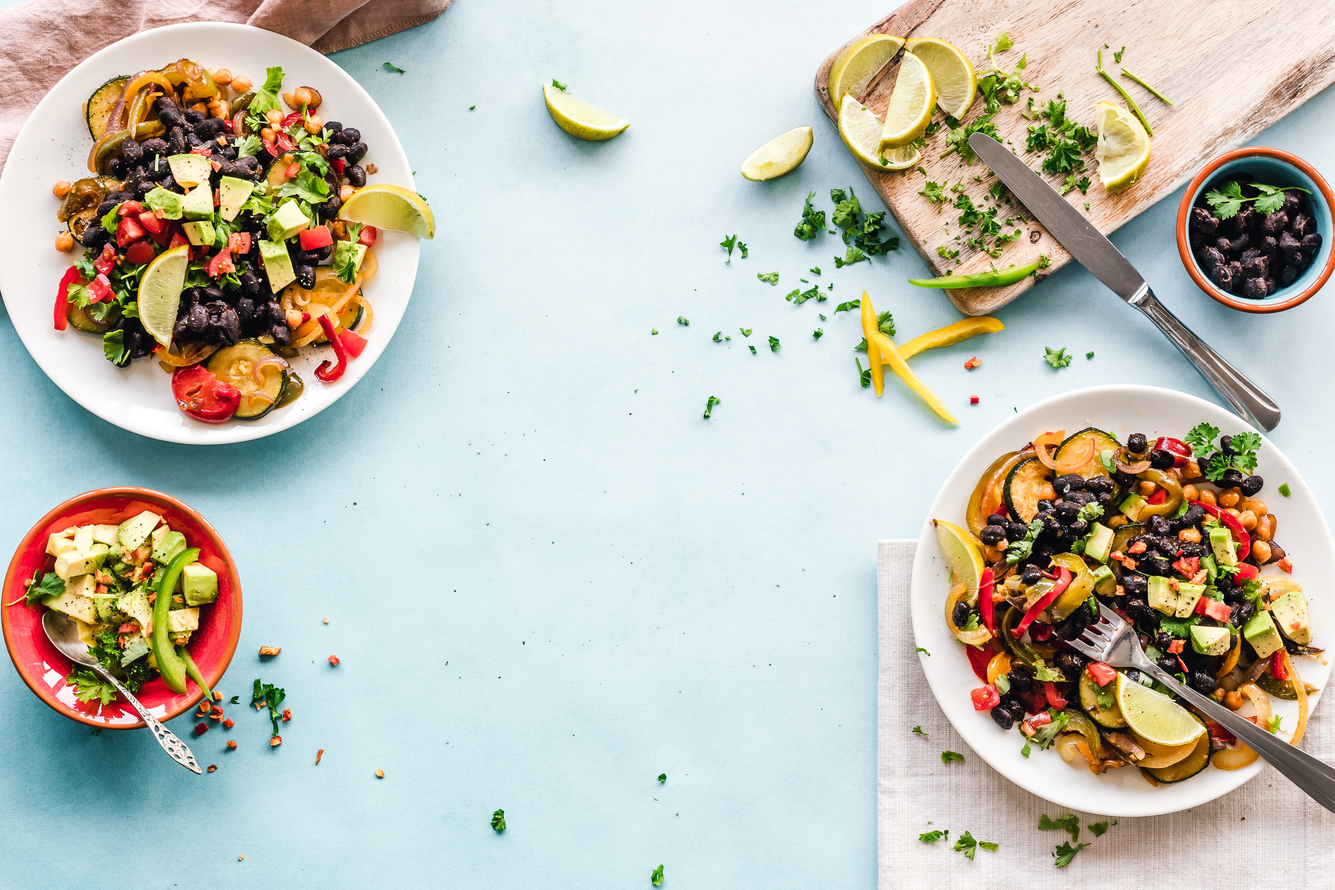
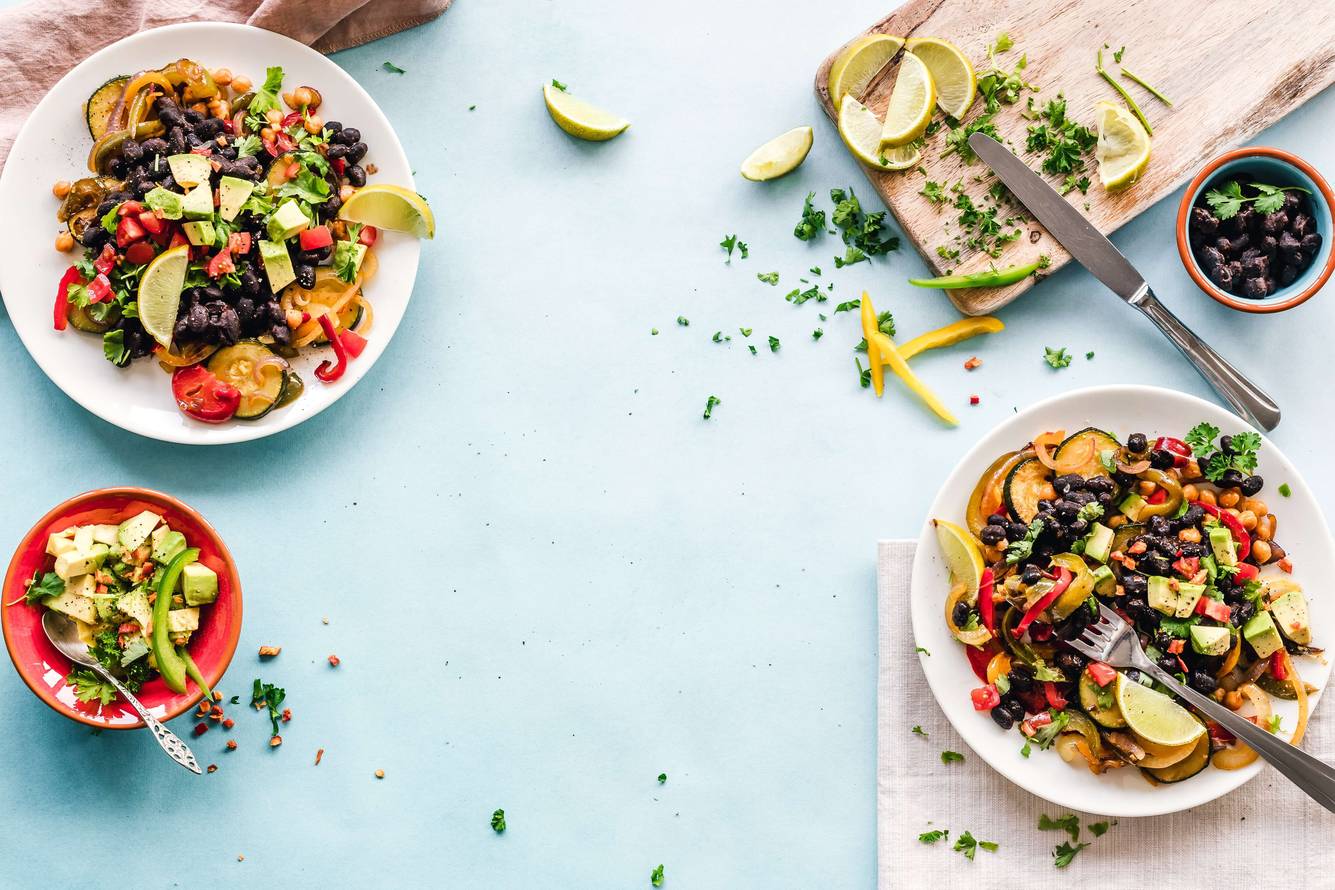
Optimized file to save 2 MB in each file download

diff --git a/src/App.module.scss b/src/App.module.scss
@@ -18,3 +18,9 @@
     grid-area: body;
   }
 }
+
+@media screen and (min-width: 900px) {
+  .App {
+    background-size: 100% 100%;
+  }
+}
